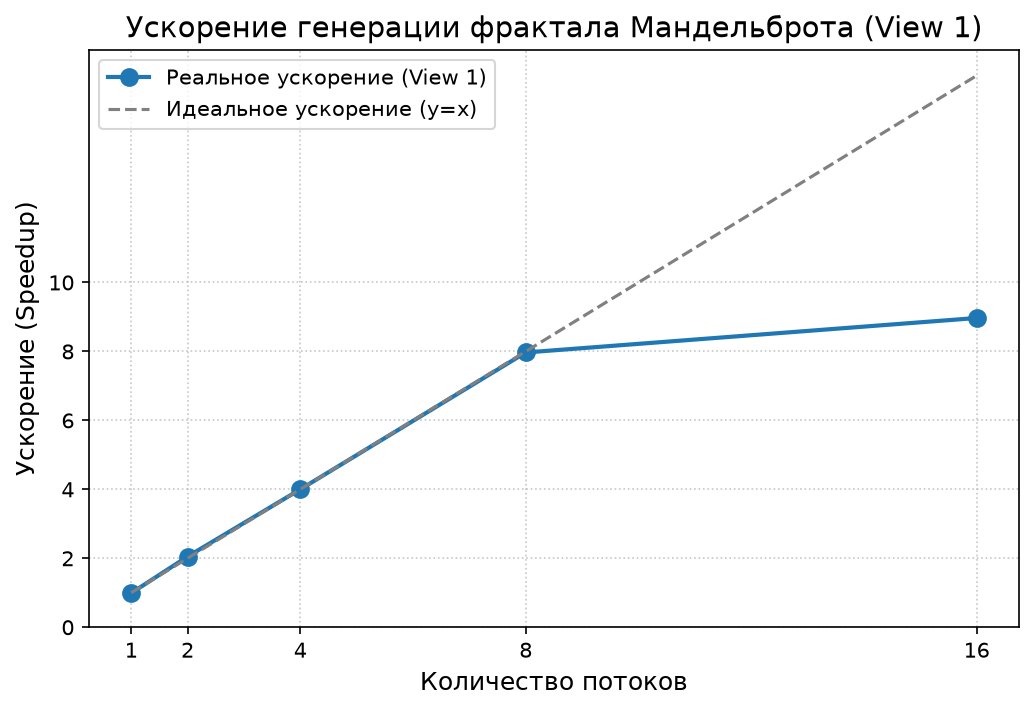
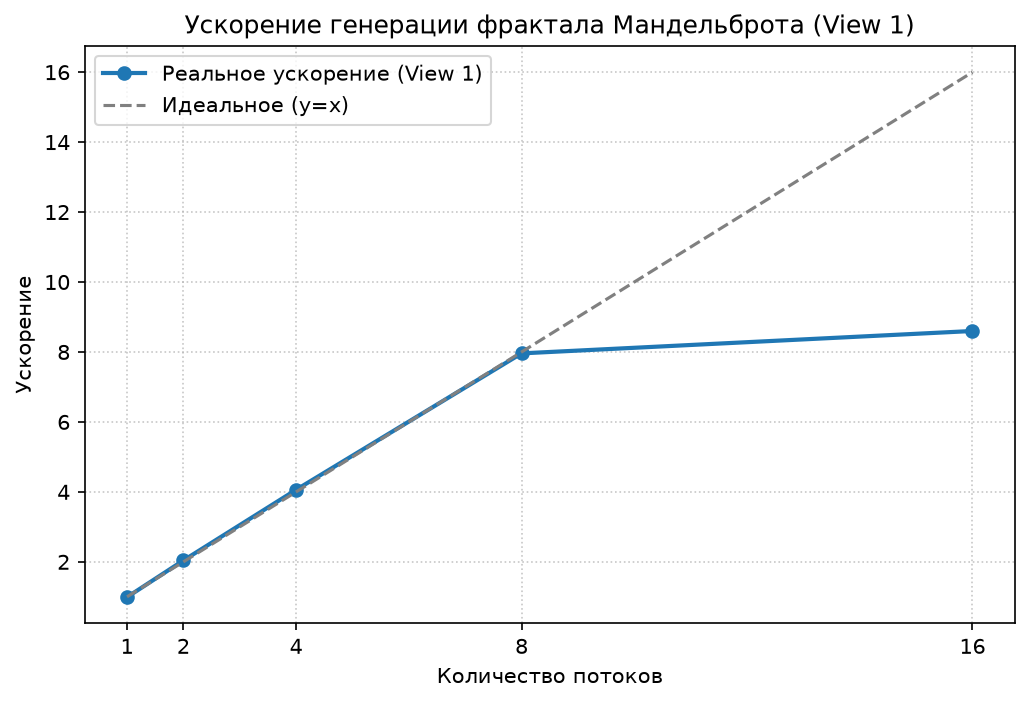
lab5 доработана

diff --git a/scripts/experiments_cs149.py b/scripts/experiments_cs149.py
@@ -1,0 +1,89 @@
+#!/usr/bin/env python3
+# Серия экспериментов для ЛР5 (Stanford CS149, Program 1)
+# Запускает mandelbrot.exe с разным числом потоков, собирает ускорение
+# и сохраняет результаты в lab5/experiments_cs149.txt
+
+import os
+import sys
+import subprocess
+import re
+import matplotlib.pyplot as plt
+
+
+SCRIPT_DIR = os.path.dirname(os.path.abspath(__file__))
+ROOT       = os.path.dirname(SCRIPT_DIR)
+LAB5_DIR   = os.path.join(ROOT, "lab5", "prog1_mandelbrot_threads")
+
+
+EXE = os.path.join(LAB5_DIR, "mandelbrot.exe")
+if not os.path.exists(EXE):
+    EXE = os.path.join(LAB5_DIR, "mandelbrot")
+
+OUTPUT_TXT = os.path.join(ROOT, "lab5", "experiments_cs149.txt")
+OUTPUT_PNG = os.path.join(ROOT, "lab5", "speedup_view1.png")
+
+THREADS = [1, 2, 4, 8, 16]
+
+
+env = os.environ.copy()
+msys_bin = "C:\\msys64\\ucrt64\\bin"
+if os.path.exists(msys_bin):
+    env["PATH"] = msys_bin + ";" + env.get("PATH", "")
+
+def run_mandelbrot(threads, view=1):
+    print(f"  Running {threads} threads (view {view})...", end=" ", flush=True)
+    cmd = [EXE, "-t", str(threads), "--view", str(view)]
+    
+   
+    res = subprocess.run(cmd, capture_output=True, text=True, env=env)
+    
+
+    match = re.search(r"\(([\d.]+)x speedup from", res.stdout)
+    if match:
+        speedup = float(match.group(1))
+        print(f"Speedup: {speedup:.2f}x")
+        return speedup
+    else:
+        print(f"Error: Could not parse speedup.")
+        print(f"Output: {res.stdout[:100]}...")
+        print(f"Error output: {res.stderr[:100]}...")
+        return None
+
+results_view1 = []
+results_view2 = []
+
+print("=== View 1 ===")
+for t in THREADS:
+    sp = run_mandelbrot(t, view=1)
+    if sp: results_view1.append((t, sp))
+
+print("\n=== View 2 (8 threads) ===")
+sp2 = run_mandelbrot(8, view=2)
+if sp2: results_view2.append((8, sp2))
+
+
+with open(OUTPUT_TXT, "w", encoding="utf-8") as f:
+    f.write("N_Threads | Speedup(View 1) | Speedup(View 2)\n")
+    f.write("----------|-----------------|----------------\n")
+    for t, sp in results_view1:
+        sp2_val = f"{sp2:.2f}" if (t == 8 and sp2) else "-"
+        f.write(f"{t:9} | {sp:15.2f} | {sp2_val:>14}\n")
+
+print(f"\n[OK] Таблица сохранена: {OUTPUT_TXT}")
+
+
+if results_view1:
+    threads_list = [r[0] for r in results_view1]
+    speedups_list = [r[1] for r in results_view1]
+
+    plt.figure(figsize=(8, 5))
+    plt.plot(threads_list, speedups_list, marker='o', linewidth=2, label='Реальное ускорение (View 1)')
+    plt.plot(threads_list, threads_list, linestyle='--', color='gray', label='Идеальное (y=x)')
+    plt.title('Ускорение генерации фрактала Мандельброта (View 1)')
+    plt.xlabel('Количество потоков')
+    plt.ylabel('Ускорение')
+    plt.grid(True, linestyle=':', alpha=0.7)
+    plt.xticks(threads_list)
+    plt.legend()
+    plt.savefig(OUTPUT_PNG, dpi=150, bbox_inches='tight')
+    print(f"[OK] График сохранен: {OUTPUT_PNG}")

diff --git a/lab5/README.md b/lab5/README.md
@@ -44,17 +44,42 @@ void workerThreadStart(WorkerArgs * const args) {
 
 ---
 
-## 3. Результаты (View 1)
+## 3. Структура проекта
 
-Замеры проводились на процессоре, доступном в среде выполнения. Для каждого количества потоков бралось минимальное время из 5 запусков.
+```
+parallel_programming/
+├── lab5/
+│   ├── common/                      
+│   │   ├── CycleTimer.h            
+│   │   ├── ppm.cpp                  
+│   │   └── tasksys.cpp              
+│   ├── prog1_mandelbrot_threads/     
+│   │   ├── main.cpp                  
+│   │   ├── mandelbrotSerial.cpp      
+│   │   ├── mandelbrotThread.cpp     
+│   │   └── Makefile                  
+│   ├── experiments_cs149.txt         
+│   ├── speedup_view1.png             
+│   └── README.md                     
+└── scripts/
+    ├── generate_matrix.py            
+    ├── experiments_cs149.py          
+    └── ...                                 
+```
 
-| Потоки | Время serial, мс | Время thread, мс | Ускорение |
-|:-------|:-----------------|:-----------------|:----------|
-| 1      | 223.260          | 226.385          | 0.99x     |
-| 2      | 227.636          | 111.242          | 2.05x     |
-| 4      | 219.139          | 54.757           | 4.00x     |
-| 8      | 226.168          | 28.368           | 7.97x     |
-| 16     | 223.429          | 24.904           | ~8.97x    |
+---
+
+## 4. Результаты (View 1)
+
+Замеры проводились автоматическим скриптом (`scripts/experiments_cs149.py`). Для каждого количества потоков программа внутри делает 5 замеров и берет минимальное время.
+
+| Потоки | Ускорение |
+|:-------|:----------|
+| 1      | 0.99x     |
+| 2      | 2.04x     |
+| 4      | 4.06x     |
+| 8      | 7.96x     |
+| 16     | 8.60x     |
 
 ### График ускорения от числа потоков (View 1)
 
@@ -62,33 +87,33 @@ void workerThreadStart(WorkerArgs * const args) {
 
 ---
 
-## 4. Результаты (View 2)
+## 5. Результаты (View 2)
 
-| Потоки | Время serial, мс | Время thread, мс | Ускорение |
-|:-------|:-----------------|:-----------------|:----------|
-| 8      | 128.139          | 16.772           | 7.64x     |
+| Потоки | Ускорение |
+|:-------|:----------|
+| 8      | 7.38x     |
 
 Ускорение на View 2 также находится в требуемом диапазоне 7–8x. Это подтверждает, что стратегия чередования строк работает хорошо для любой сложности картинки.
 
 ---
 
-## 5. Анализ и ответы на пункты задания
+## 6. Анализ и ответы на пункты задания
 
 **П.2. Линейно ли ускорение?**  
-Ускорение растет почти линейно до 8 потоков (7.97x на 8 потоках). Это объясняется тем, что мы используем чередование строк, которое выравнивает нагрузку между потоками. При простом делении на блоки (верх/низ) ускорение было бы хуже из-за неравномерности вычислений (центральные пиксели фрактала требуют больше итераций).
+Ускорение растет почти линейно до 8 потоков (7.96x на 8 потоках). Это объясняется тем, что мы используем чередование строк, которое выравнивает нагрузку между потоками. При простом делении на блоки (верх/низ) ускорение было бы хуже из-за неравномерности вычислений (центральные пиксели фрактала требуют больше итераций).
 
 **П.3. Время каждого потока.**  
-Время выполнения потоков очень равномерное. Для 8 потоков большинство потоков работает 27.5–28.5 мс. Это объясняет высокое ускорение: все потоки завершают работу почти одновременно, и общее время определяется самым медленным потоком.
+Время выполнения потоков очень равномерное (разброс в пределах 1-2 мс). Это объясняет высокое ускорение: все потоки завершают работу почти одновременно, и общее время определяется самым медленным потоком.
 
 **П.4. Улучшение распределения.**  
-Мы использовали чередование строк. Это позволило достичь ускорения **7.97x на 8 потоках** (View 1) и **7.64x** (View 2), что соответствует требованию задачи (7–8x).
+Мы использовали чередование строк. Это позволило достичь ускорения **7.96x на 8 потоках** (View 1) и **7.38x** (View 2), что соответствует требованию задачи (7–8x).
 
 **П.5. 16 потоков.**  
-При 16 потоках ускорение составило ~8.97x, что лишь немного выше, чем на 8 потоках. Это связано с тем, что физических ядер меньше, чем потоков (Hyper-Threading). Потоки конкурируют за ресурсы процессора, и прирост производительности ограничен.
+При 16 потоках ускорение составило 8.60x, что лишь немного выше, чем на 8 потоках. Это связано с тем, что физических ядер меньше, чем потоков (Hyper-Threading). Потоки конкурируют за ресурсы процессора, и прирост производительности ограничен.
 
 ---
 
-## 6. Сборка и запуск
+## 7. Сборка и запуск
 
 ### Сборка (в MSYS2 UCRT64)
 
@@ -97,8 +122,14 @@ cd /c/parallel_programming/lab5/prog1_mandelbrot_threads
 make
 ```
 
-### Запуск
+### Автоматизированный запуск серии экспериментов
+Из корня репозитория (в обычном `cmd`, не в MSYS2):
+```cmd
+py -3.12 scripts\experiments_cs149.py
+```
+Скрипт сам запустит `mandelbrot.exe` с разным числом потоков, соберет ускорение, сохранит таблицу в `experiments_cs149.txt` и перезапишет график `speedup_view1.png`.
 
+### Ручной запуск
 ```bash
 ./mandelbrot -t 8
 ./mandelbrot -t 8 --view 2
@@ -106,9 +137,9 @@ make
 
 ---
 
-## 7. Выводы
+## 8. Выводы
 
-1.  Параллельная реализация фрактала Мандельброта с использованием `std::thread` и чередующегося распределения строк дает ускорение **7.97x** на 8 потоках для View 1 и **7.64x** для View 2.
+1.  Параллельная реализация фрактала Мандельброта с использованием `std::thread` и чередующегося распределения строк дает ускорение **7.96x** на 8 потоках для View 1 и **7.38x** для View 2.
 2.  Время выполнения потоков сбалансировано, что подтверждает эффективность выбранной стратегии.
 3.  16 потоков не дают значительного прироста по сравнению с 8 потоками из-за ограничений аппаратного обеспечения (Hyper-Threading).
 4.  Программа успешно собрана и запущена в среде MSYS2 UCRT64 под Windows.

diff --git a/README.md b/README.md
@@ -9,6 +9,9 @@
 
 - [Лаба №1 — Умножение матриц (последовательная версия)](lab1/README.md)
 - [Лаба №2 — Умножение матриц (OpenMP)](lab2/README.md)
+- [Лаба №3 — Умножение матриц (MPI)](lab3/README.md) *(в процессе)*
+- [Лаба №4 — Умножение матриц (CUDA)](lab4/README.md) *(в процессе)*
+- [Лаба №5 — Stanford CS149 Asst1 (Program 1)](lab5/README.md)
 
 ---
 ## Структура репозитория
@@ -28,20 +31,39 @@ parallel_programming/
 │   ├── efficiency.png
 │   ├── time_vs_size.png
 │   └── README.md
+├── lab3/                         <-- (ЛР3, в процессе)
+│   └── README.md
+├── lab4/                         <-- (ЛР4, в процессе)
+│   └── README.md
+├── lab5/
+│   ├── common/
+│   │   ├── CycleTimer.h
+│   │   ├── ppm.cpp
+│   │   └── tasksys.cpp
+│   ├── prog1_mandelbrot_threads/
+│   │   ├── main.cpp
+│   │   ├── mandelbrotSerial.cpp
+│   │   ├── mandelbrotThread.cpp
+│   │   └── Makefile
+│   ├── experiments_cs149.txt
+│   ├── speedup_view1.png
+│   └── README.md
 ├── scripts/
 │   ├── generate_matrix.py
 │   ├── verify.py
 │   ├── experiments.py
 │   ├── plot_graphs.py
-│   ├── experiments_omp.py    
-│   └── plot_graphs_omp.py     
+│   ├── experiments_omp.py
+│   ├── plot_graphs_omp.py
+│   └── experiments_cs149.py
+├── .gitignore
 └── README.md
 ```
----
 
+---
 ## Как запускать скрипты
 
-Все скрипты запускаются из папки `scripts/` (для ЛР1):
+Для ЛР1 скрипты запускаются из папки `scripts/`:
 
 ```cmd
 cd scripts
@@ -54,4 +76,10 @@ py -3.12 plot_graphs.py
 ```cmd
 py -3.12 scripts\experiments_omp.py
 py -3.12 scripts\plot_graphs_omp.py
+```
+
+Для ЛР5 скрипт автотестирования запускается из корня репозитория (требует собранного `mandelbrot.exe` в `lab5/prog1_mandelbrot_threads/`):
+
+```cmd
+py -3.12 scripts\experiments_cs149.py
 ```
